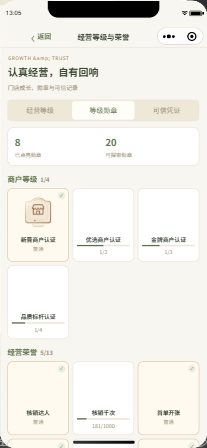
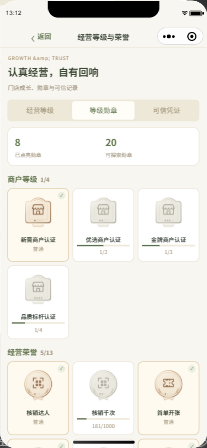
Verify cold-cache merchant badges and save complete simulator screenshots

diff --git a/docs/商户徽章批量重设计-20261108.md b/docs/商户徽章批量重设计-20261108.md
@@ -10,4 +10,6 @@
 
 模拟器逐页走查再次通过，覆盖等级/勋章/凭证页签和我的入口，以及原订单、库存、结算和历史查询。首轮勋章墙截图发现图片短暂留白：每张PNG默认重复扫描全部系统字体，单张约237—266ms，批量时阻塞后续图片；这些图连国家代码也用路径绘制。关闭无需使用的字体扫描后样本降为2—4ms；四类图前后PNG逐字节相同。新增守护检查并保留原有PNG缓存，修复后补充冷启动勋章墙图片实际显示证据。[性能与一致性样本](evidence/merchant-badges-20261108/png-render.json)、[40图HTTP检查](evidence/merchant-badges-20261108/http-live.json)、[模拟器走查](evidence/merchant-badges-20261108/simulator-live.json)。
 
+PR #145 合并为ac12520后，保留原.env重启8080以清空服务端图片缓存，冷请求40张PNG合计434ms，全部返回正确PNG。商户接口返回20枚带新版本号图片；重新在模拟器切换等级/勋章/凭证及我的，已获得和未获得图形均正常显示，本文实图已替换为修复后截图。[冷加载结果](evidence/merchant-badges-20261108/cold-live.json)、[勋章墙](evidence/merchant-badges-20261108/badges-live.png)、[等级](evidence/merchant-badges-20261108/level-live.png)、[可信凭证](evidence/merchant-badges-20261108/credentials-live.png)、[我的](evidence/merchant-badges-20261108/me-live.png)。此为开发者工具模拟器，正式商户AppID和真机验收仍待外部条件，不把图形更新计作资格认证或真实支付闭环。
+
 源文件：[merchant-emblem.mjs](../api/src/domain/merchant-emblem.mjs)。[20枚完整图册](evidence/merchant-badges-20261108/catalog.png)、[名称与参数](evidence/merchant-badges-20261108/manifest.json)。同目录的63.png—82.png为已获得，63-off.png—82-off.png为未获得灰阶。
